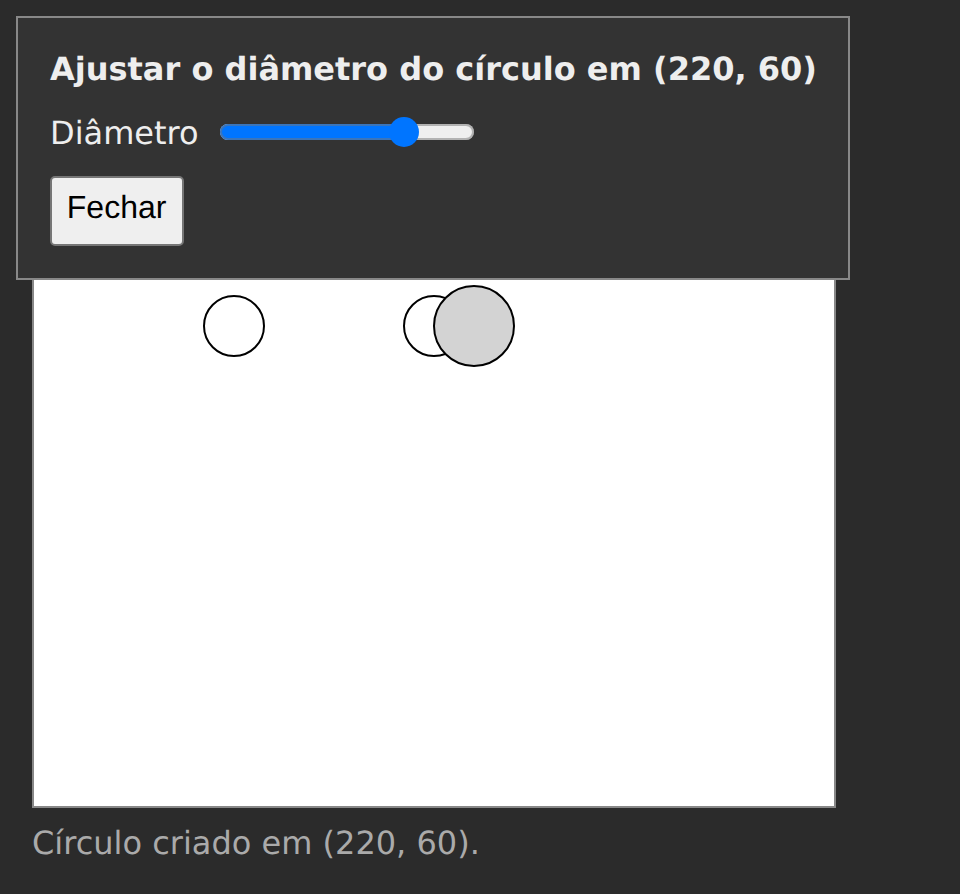
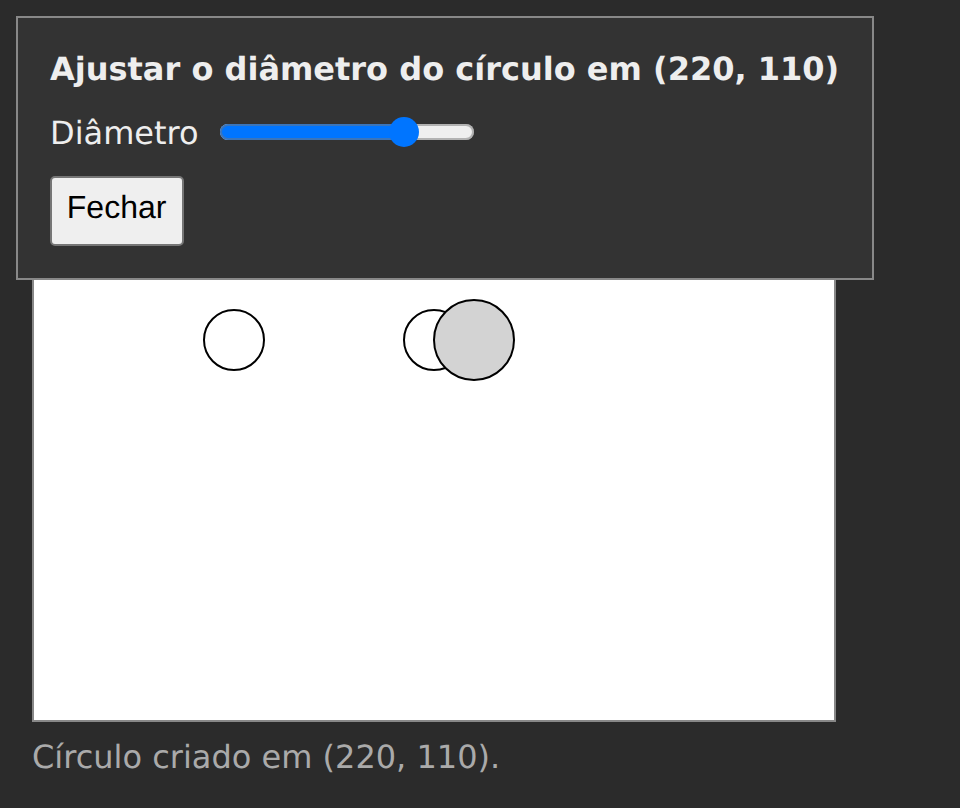
Hospeda o Circle Drawer no Web Component pela página comum
O Circle Drawer no Web Component ainda traz a página com o botão
"Esconder desenho"/"Mostrar desenho", um segundo elemento que só existe
para o teste de conformidade tirar o desenho da página, e por isso falha
nas verificações de "Limpeza ao sair da tela", que desde "Confere a
limpeza ao sair da tela pela rota da página, sem botão" saem e voltam
pela rota do hash de implementacoes/pagina.ts (ADR 0043).

A página sai, e fica o par montar e desmontar no idioma da tecnologia: o
createElement e o append do desenho no contêiner, e o remove(), que
dispara o disconnectedCallback. O index.html passa a trazer o
contêiner #raiz com a classe do layout, que a página montava. A limpeza
ao sair da tela, no disconnectedCallback, não muda: é o que se compara.

Sem o botão, o canvas sobe o tanto que ele media, e o diálogo do ajuste,
que fica no alto da página sobre os botões inertes, passa a cobrir os
círculos das cenas, em y = 60: a cena "ajuste" mostraria o diálogo sem o
círculo ajustado. As cenas descem os círculos para y = 110, abaixo do
diálogo e ainda dentro da janela de captura de 200 px; a especificação e
o teste não dependem desse y. A alternativa, mover o diálogo no
estilo.css, cobriria a situação ou os botões, e a aparência comum não
precisa mudar por causa das cenas.

Conferido com npm run conformidade -- desenho-de-circulos/web-component
(27 verificações ok) e com as capturas regeradas: as 5 cenas saem sem o
[…]

diff --git a/implementacoes/desenho-de-circulos/web-component/src/main.ts b/implementacoes/desenho-de-circulos/web-component/src/main.ts
@@ -13,6 +13,7 @@ import {
   type Circulo,
   type Ponto,
 } from "../../dominio";
+import { hospedar } from "../../../pagina";
 import "../../estilo.css";
 
 const modelo = /* HTML */ `
@@ -227,35 +228,10 @@ class AreaDeDesenho extends HTMLElement {
   }
 }
 
-// A página: o botão que tira o desenho da página e o põe de volta.
-class Pagina extends HTMLElement {
-  private desenho?: AreaDeDesenho;
-
-  connectedCallback() {
-    this.innerHTML = /* HTML */ `
-      <main class="pagina">
-        <button type="button" class="alternar">Esconder desenho</button>
-      </main>
-    `;
-    const principal = this.querySelector("main")!;
-    const alternar = this.querySelector<HTMLButtonElement>(".alternar")!;
-    const mostrar = () => {
-      this.desenho = document.createElement("area-de-desenho") as AreaDeDesenho;
-      principal.append(this.desenho);
-      alternar.textContent = "Esconder desenho";
-    };
-    alternar.addEventListener("click", () => {
-      if (this.desenho) {
-        this.desenho.remove();
-        this.desenho = undefined;
-        alternar.textContent = "Mostrar desenho";
-      } else {
-        mostrar();
-      }
-    });
-    mostrar();
-  }
-}
-
 customElements.define("area-de-desenho", AreaDeDesenho);
-customElements.define("desenho-de-circulos", Pagina);
+
+hospedar((conteiner) => {
+  const desenho = document.createElement("area-de-desenho");
+  conteiner.append(desenho);
+  return () => desenho.remove();
+});

diff --git a/implementacoes/desenho-de-circulos/web-component/index.html b/implementacoes/desenho-de-circulos/web-component/index.html
@@ -6,7 +6,7 @@
     <title>Circle Drawer com Web Component</title>
   </head>
   <body>
-    <desenho-de-circulos></desenho-de-circulos>
+    <main id="raiz" class="pagina"></main>
     <script type="module" src="/src/main.ts"></script>
   </body>
 </html>
